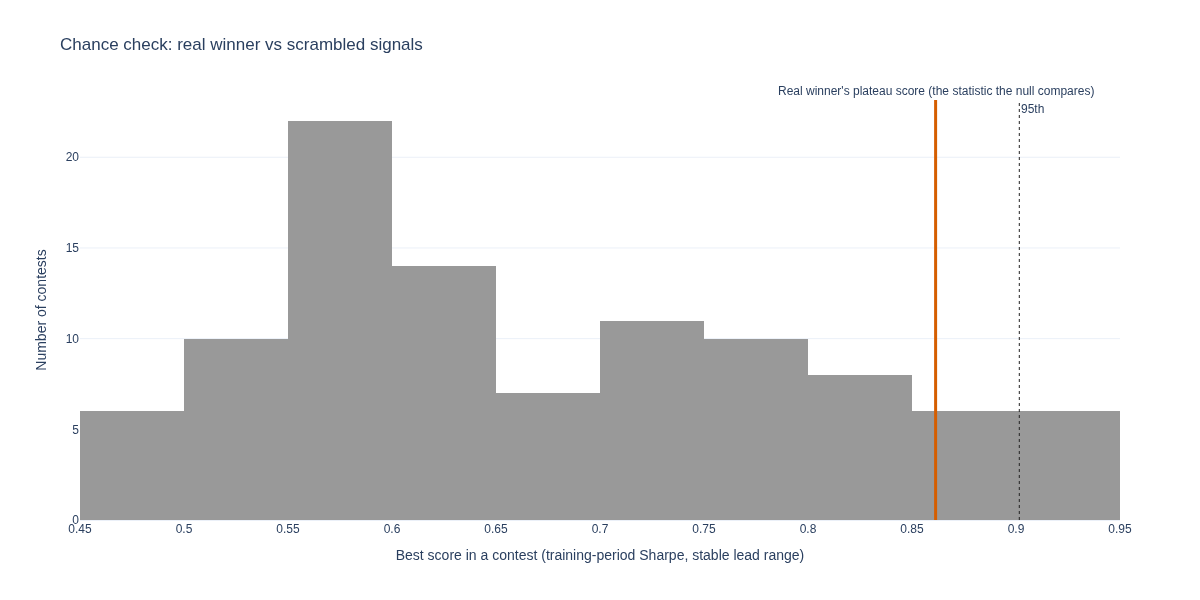
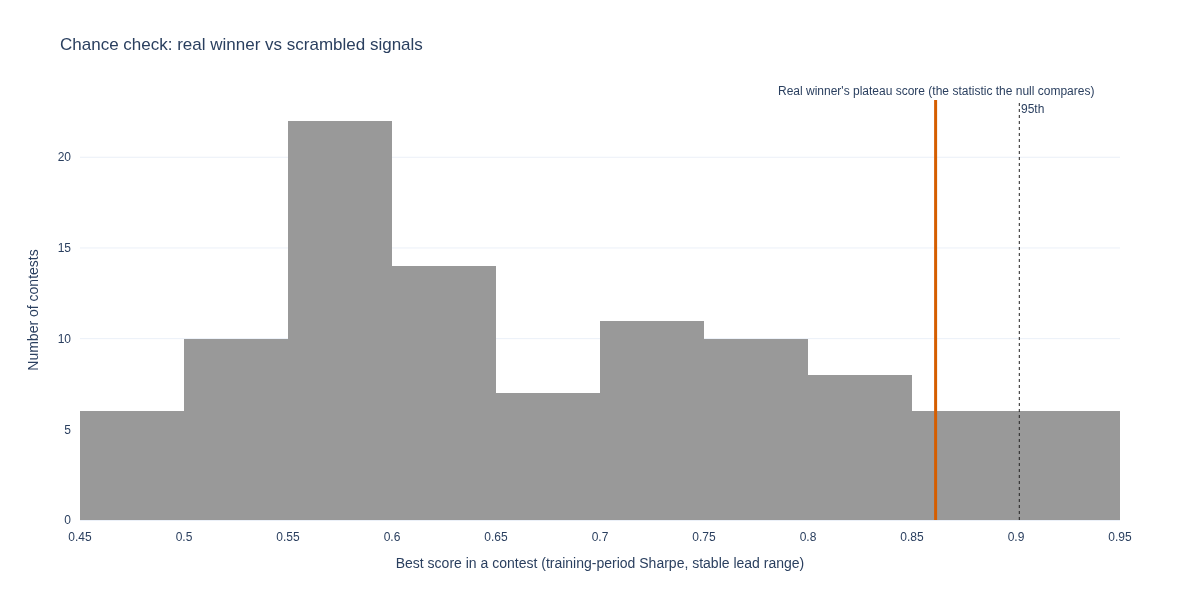
harness charts: chance-check axis labels clear of the origin; lead plateau draws the hindsight curve
umcsent QA P5 / P6 (every harness pair): the y '0' and the first x tick met at the
origin (tick labels padded); the lead chart's legend listed a hidden 'As revised today'
trace that was not drawn (now drawn dashed). Pilot harness charts re-rendered and
inspected; provenance records updated by the producer.

Claude-Session: https://claude.ai/code/session_013QJi3cY4HgnCo3223v9q3m

diff --git a/scripts/harness/charts.py b/scripts/harness/charts.py
@@ -46,7 +46,8 @@ def _save(pair: str, name: str, fig: go.Figure, caption: str, sources: list[str]
 
 def lead_plateau(pair: str, tag: str, lead_unit: str) -> str | None:
     """Score (training-period Sharpe) vs lead for the MAIN winner's rule, plateau band, winner diamond, open
-    triangle for an off-plateau maximum; the hindsight curve is a legend-toggle trace. Returns the caption."""
+    triangle for an off-plateau maximum; the hindsight (as revised today) curve is drawn dashed for comparison (a
+    legend entry for a hidden trace read as a missing line: umcsent QA P6). Returns the caption."""
     rdir = REPO / "results" / pair
     main = pd.read_csv(rdir / f"lead_curve_{tag}.csv")
     if main.empty:
@@ -76,7 +77,7 @@ def lead_plateau(pair: str, tag: str, lead_unit: str) -> str | None:
         hl = hind[[c for c in hind.columns if c.startswith("lead_")][0]].astype(int)
         fig.add_trace(go.Scatter(x=[pos.get(L, np.nan) for L in hl], y=hind["is_sharpe"], mode="lines+markers",
                                  name=LABEL["revised"], line=dict(color=C_REV, width=2, dash="dash"),
-                                 marker=dict(symbol="square", size=7), visible="legendonly",
+                                 marker=dict(symbol="square", size=7), opacity=0.75,
                                  hovertext=[f"Lead {L}<br>Score {s:.2f} (hindsight)" for L, s in zip(hl, hind["is_sharpe"])],
                                  hoverinfo="text"))
     fig.add_trace(go.Scatter(x=[pos[wl]], y=[w["is_sharpe"]], mode="markers", name=f"Winner L{wl}",
@@ -140,6 +141,9 @@ def chance_check(pair: str, tag: str) -> str | None:
     fig.update_layout(template="plotly_white", height=380, title="Chance check: real winner vs scrambled signals",
                       xaxis_title="Best score in a contest (training-period Sharpe, stable lead range)",
                       yaxis_title="Number of contests", showlegend=False)
+    # the y '0' and the first x tick met at the origin (umcsent QA P5): pad both axes' tick labels off the corner
+    fig.update_yaxes(rangemode="tozero", ticklabelstandoff=8)
+    fig.update_xaxes(ticklabelstandoff=8)
     _save(pair, "chance_check", fig, cap, [f"results/{pair}/null_tournament_{tag}.csv", f"results/{pair}/track_summary.json"])
     return cap
 
